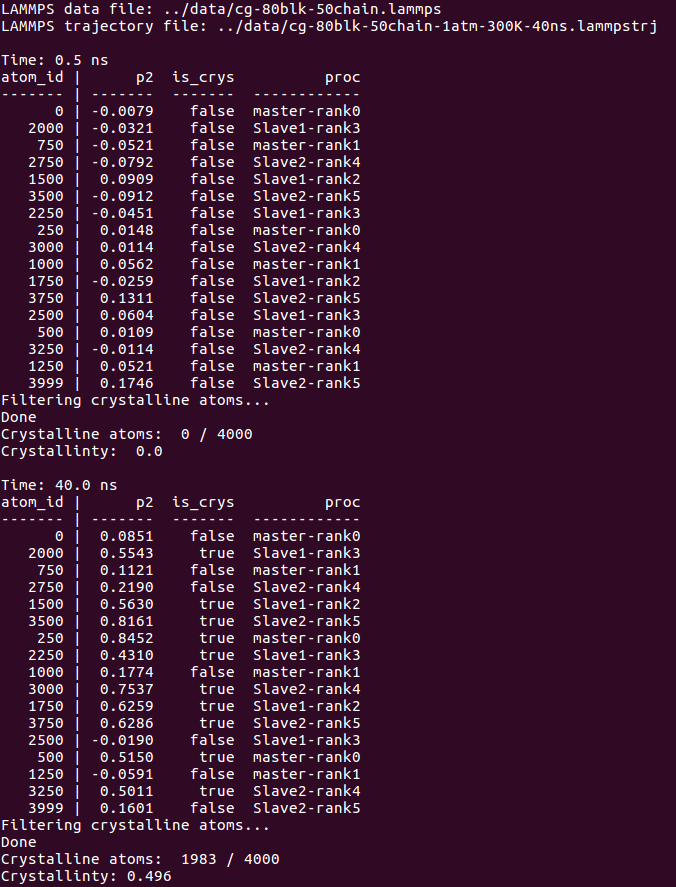
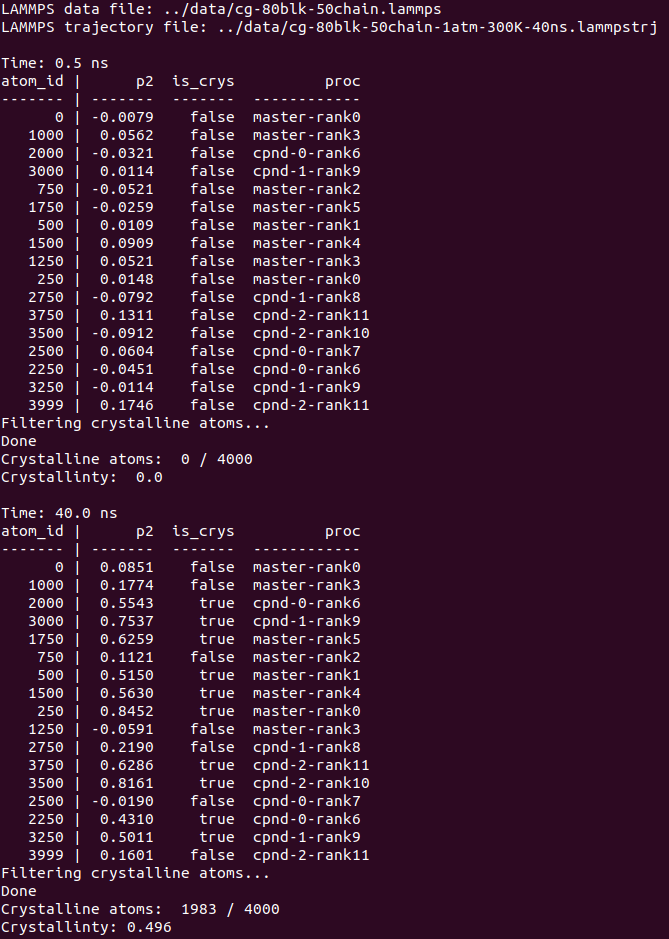
Updated readme and screenshot.

Changed region(s): [[0.0, 0.0, 0.9865, 1.0]]

diff --git a/readme.md b/readme.md
@@ -14,7 +14,7 @@ This postprocessing code was used in my research projects #6 and #7, as shown in
 ### MPI mode
 
 &nbsp;&nbsp;&nbsp;&nbsp;1. Open MPI or MPICH <br />
-&nbsp;&nbsp;&nbsp;&nbsp;2. mpi4py <br />
+&nbsp;&nbsp;&nbsp;&nbsp;2. python3, numpy, mpi4py <br />
 
 These packages should be installed on the master node as well as all the worker nodes in your cluster.
 
@@ -23,7 +23,7 @@ Please read this [tutorial](https://www-users.cs.york.ac.uk/~mjf/pi_cluster/src/
 
 ### Multiprocessing mode
 
-&nbsp;&nbsp;&nbsp;&nbsp;None
+&nbsp;&nbsp;&nbsp;&nbsp;python3, numpy
 
 
 # Usage
@@ -32,26 +32,35 @@ Please read this [tutorial](https://www-users.cs.york.ac.uk/~mjf/pi_cluster/src/
 
 Run distributed computing on all the worker nodes in your network.
 The master node can also be utilized along side the worker nodes (this can be changed by modifying the ![hosts](./run/hosts) file.)
- 
+
+This program is tested with OpenMPI 3.0.1 and mpi4py 3.0.0 on Ubuntu 18.04.
+As there is a [default mpiexec (1.10)](https://launchpad.net/ubuntu/bionic/+package/mpi-default-bin) shipped with Ubuntu 18.04, we need to specify the correct path of mpiexec to correctly run the program (we can also set symlink or alias).
 Usage:
 ```
 cd run
-mpiexec -np <n> python ../src/main.py mpi
+path/to/mpiexec -np <n> python3 ../src/main.py mpi
 ```
 or
 ```
 cd run
-mpiexec --hostfile ./hosts -np <n> python ../src/main.py mpi
+path/to/mpiexec --hostfile ./hosts -np <n> python3 ../src/main.py mpi
 ```
 where `<n>` is the number of physical cores in your cluster.
 To use the `--hostfile` option, you need to modify the ![hosts](./run/hosts) file to accommodate the setting of your cluster.
+
+This program assumes that cores in every compute node have approximately equal computing power.
+If the computing power of cores are different in different nodes, then to get best performance we can specifically assign a process to a core, by using a ![ranks](./run/ranks) file:
+```
+cd run
+path/to/mpiexec --hostfile ./hosts --rankfile ./ranks -np <n> python3 ../src/main.py mpi
+```
 
 ### Multiprocessing mode
 
 Run parallel computing only on your local node (ie, your workstation). Usage:
 ```
 cd run
-python ../src/main.py mp
+python3 ../src/main.py mp
 ```
 
 
@@ -74,6 +83,7 @@ python ../src/main.py mp
 │&nbsp;&nbsp;&nbsp;&nbsp;&nbsp;&nbsp;&nbsp;└── cg-80blk-50chain-1atm-300K-40ns.lammpstrj <br />
 ├── run <br />
 │&nbsp;&nbsp;&nbsp;&nbsp;&nbsp;&nbsp;&nbsp;├── hosts <br />
+│&nbsp;&nbsp;&nbsp;&nbsp;&nbsp;&nbsp;&nbsp;├── ranks <br />
 │&nbsp;&nbsp;&nbsp;&nbsp;&nbsp;&nbsp;&nbsp;├── input <br />
 │&nbsp;&nbsp;&nbsp;&nbsp;&nbsp;&nbsp;&nbsp;├── screen_output.png <br />
 │&nbsp;&nbsp;&nbsp;&nbsp;&nbsp;&nbsp;&nbsp;└── image.png <br />
@@ -124,7 +134,11 @@ A LAMMPS trajectory file containing two snap shots (or time steps) of the evolut
 
 #### run/hosts
 
-Configuration file listing the nodes that will be used for distributed computing.
+Configuration file listing all the nodes that will be used for distributed computing.
+
+#### run/ranks
+
+Configuration file that specifies which process/rank uses which core on which node.
 
 #### run/input
 
@@ -178,10 +192,12 @@ Lists the crystallinty of polymer system at every time listed in the trajectory 
 
 # Example screen output (MPI mode)
 
-With a cluster with a master node and two slave nodes, as listed in the ![hosts](./run/hosts) file where each node has two physical cores, my computation is launched by
+I use a cluster with a master node and three compute nodes (cpnd-[0-2]), as listed in the ![hosts](./run/hosts) file.
+The master node has 6 cores, while each compute node has 2 cores.
+To use all the 12 cores for distribured computing, my computation is conducted by launching 12 parallel processes:
 ```
 cd run
-mpiexec --hostfile ./hosts -np 6 python ../src/main.py mpi
+path/to/mpiexec --hostfile ./hosts -np 12 python3 ../src/main.py mpi
 ```
 
 which gives following screen output
